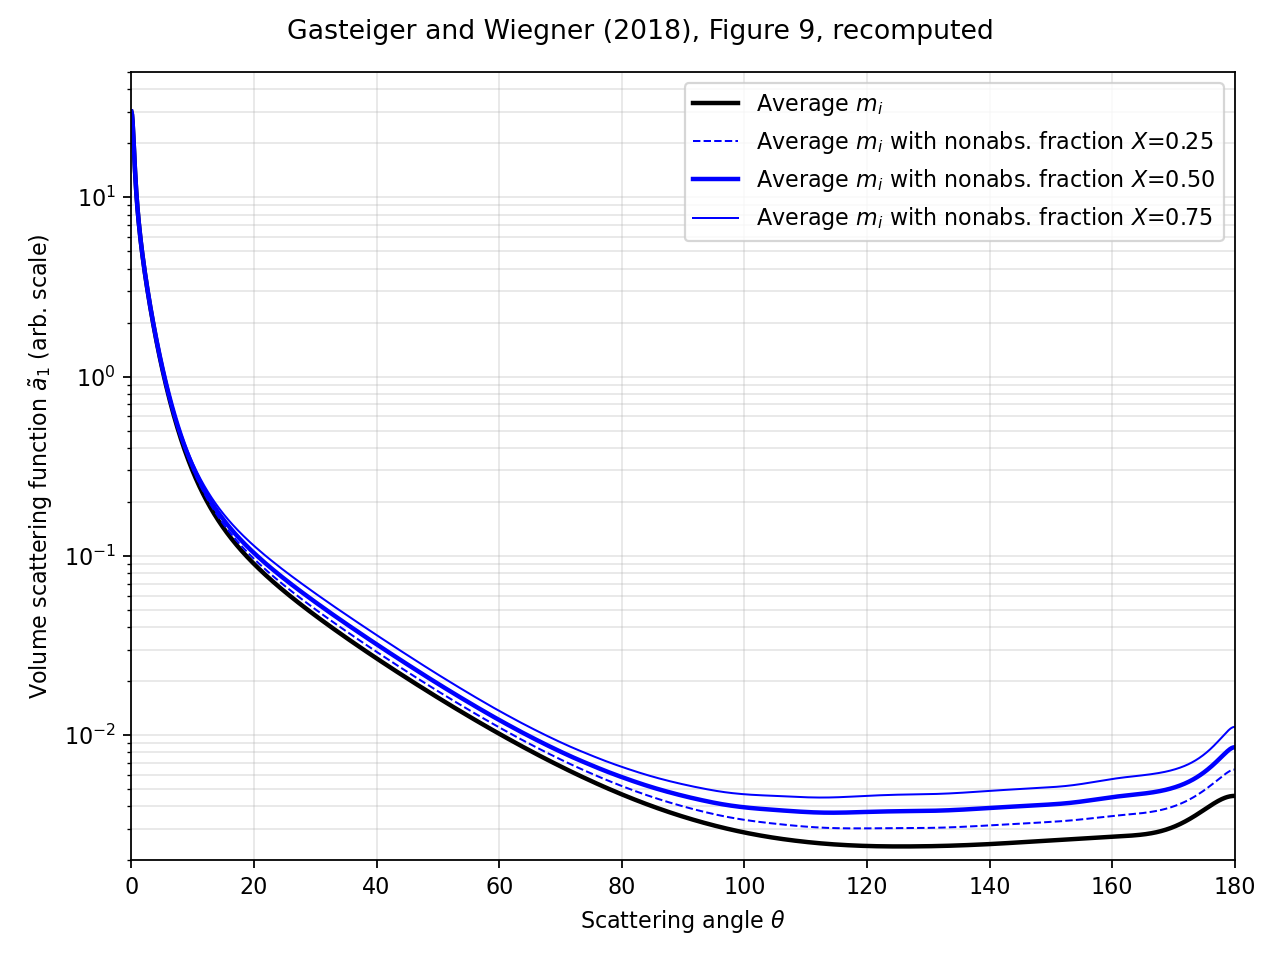
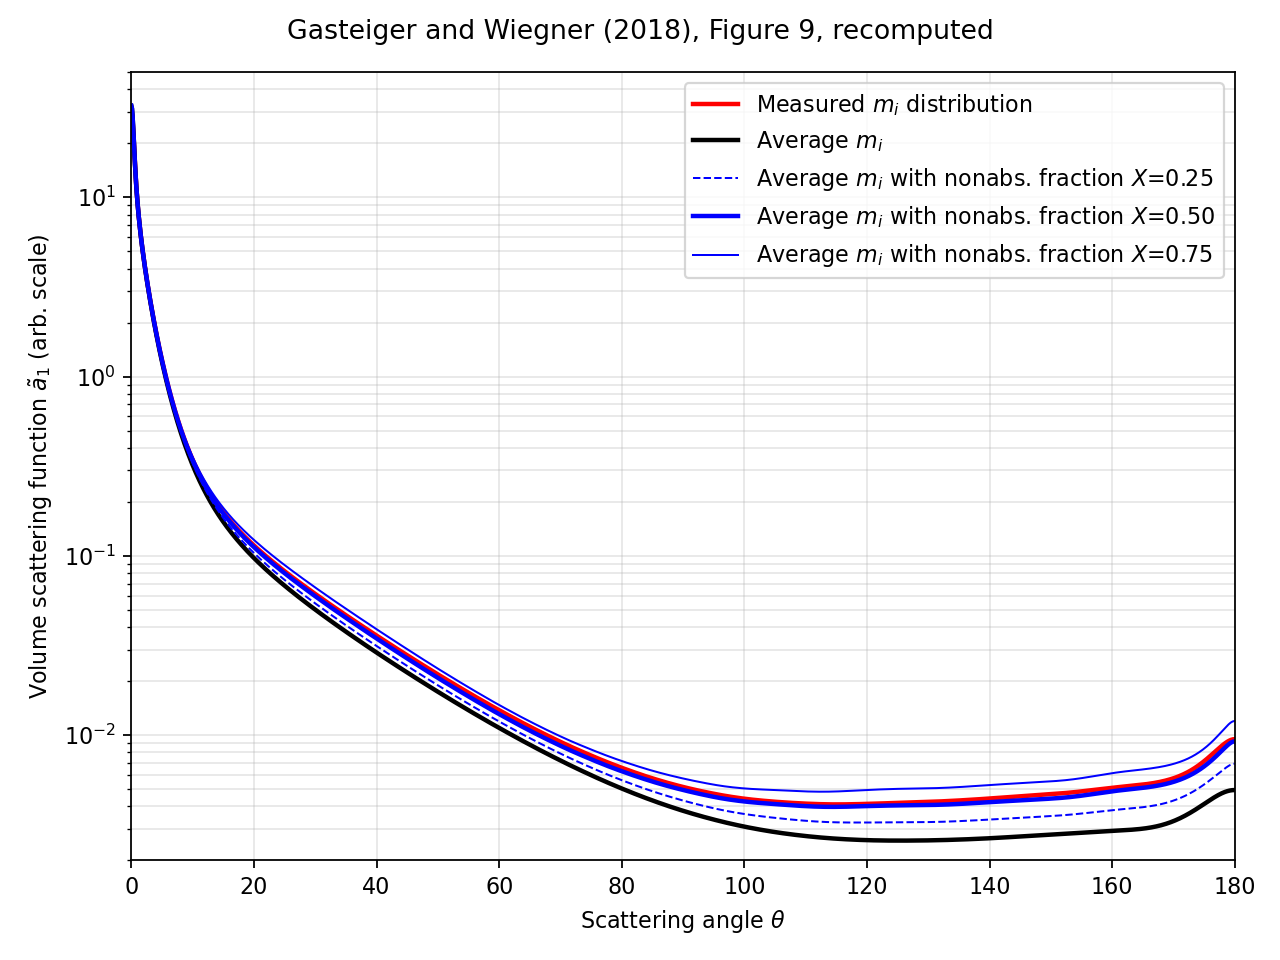
feat: add the measured index distribution to figure 9
The dust half of Appendix S1 of Kandler et al. (2011), eighteen diameter bins
over seventeen index bins. Its average comes back as 0.01746 against the
0.0175 of section 5.6, and g, S and delta_l to four digits.

diff --git a/scripts/validation/gasteiger_fig9.py b/scripts/validation/gasteiger_fig9.py
@@ -9,12 +9,20 @@ either the mi distribution measured by Kandler et al. (2011), the average mi of
 these measurements, or applying the non-absorbing fraction parameterization
 with different X."
 
-Four of the five curves. The red one needs the size-resolved imaginary index
-distribution of Kandler et al. (2011), a supplement that MOPSMAP does not ship
-with its own version of this example, so it is not here. What is here is the
-black curve, every particle carrying the average index, and the three blue
-ones, where a fraction X of the particles does not absorb at all and the rest
-absorbs the more for it.
+Five curves. The red one carries the size-resolved imaginary index
+distribution measured by Kandler et al. (2011), which is Appendix S1 of
+
+    Kandler, K. et al., Tellus B 63, 475-496, 2011,
+    doi:10.1111/j.1600-0889.2011.00550.x
+
+and has to be fetched from the publisher; point ``KANDLER_DATA`` at it. Each
+diameter bin of that table becomes seventeen modes, one per imaginary index
+bin, weighted by how many particles fell in it. Without the file the curve is
+left out and the rest is drawn.
+
+The black curve gives every particle the average index, and the three blue
+ones let a fraction X of them not absorb at all, the rest absorbing the more
+for it.
 
 The ensemble is the OPAC desert type at RH = 0 %, with the mineral components
 as prolate spheroids with the aspect ratio distribution of Kandler et al.
@@ -25,6 +33,7 @@ sets it up.
 
 from __future__ import annotations
 
+import os
 from pathlib import Path
 
 import numpy as np
@@ -62,8 +71,17 @@ MODES = [
 R_MIN_UM = 0.005
 R_MAX_UM = 20.0
 
-# The four cases the figure draws, and the colours the caption gives them.
+KANDLER_DATA = Path(
+    os.getenv(
+        "KANDLER_DATA",
+        Path.home() / "downloads" / "TEB" / "teb_550_sm_appendix_s1.txt",
+    )
+)
+MEASURED = "Measured $m_i$ distribution"
+
+# The five cases the figure draws, and the colours the caption gives them.
 CASES = {
+    MEASURED: (None, "red", "-", 2.0),
     "Average $m_i$": (0.0, "black", "-", 2.0),
     "Average $m_i$ with nonabs. fraction $X$=0.25": (
         0.25,
@@ -79,13 +97,14 @@ OUTPUTS = frozenset(
     {OutputType.INTEGRATED, OutputType.LIDAR, OutputType.PHASE_FUNCTION}
 )
 
-# What section 5.6 states for the two cases that do not need the measured
-# index distribution: "omega_0 = 0.741 when using the average mi and
+# What section 5.6 states: "omega_0 = 0.741 when using the average mi and
 # omega_0 = 0.834 using the parameterization with X = 0.5", then "for the
 # asymmetry parameter g, we obtain 0.744, 0.789, and 0.749 for the measured,
 # averaged, and parameterized cases", "values of 41, 78, and 42 sr" for the
-# lidar ratio and "0.241, 0.212, and 0.220" for the depolarisation.
+# lidar ratio and "0.241, 0.212, and 0.220" for the depolarisation. It gives
+# no albedo for the measured case.
 PUBLISHED = {
+    MEASURED: "     ---  0.744    41.00   0.2410",
     "Average $m_i$": "   0.741  0.789    78.00   0.2120",
     "Average $m_i$ with nonabs. fraction $X$=0.50": (
         "   0.834  0.749    42.00   0.2200"
@@ -95,11 +114,102 @@ PUBLISHED = {
 # What the report prints in the left column, since the legend labels are the
 # ones the published figure uses and do not fit a table.
 SHORT = {
+    MEASURED: "measured",
     "Average $m_i$": "average m_i",
     "Average $m_i$ with nonabs. fraction $X$=0.25": "X = 0.25",
     "Average $m_i$ with nonabs. fraction $X$=0.50": "X = 0.50",
     "Average $m_i$ with nonabs. fraction $X$=0.75": "X = 0.75",
 }
+
+
+def _kandler_distribution() -> tuple[list, list] | None:
+    """
+    The measured index distribution, per diameter bin.
+
+    Returns
+    -------
+    tuple or None
+        The diameter bounds in micrometres and, for each, the fraction of
+        particles in each of the seventeen imaginary index bins with that
+        bin's midpoint. None when the file is not at hand.
+
+    Notes
+    -----
+    The table is the dust half of Appendix S1: one row per meteorological
+    situation, wavelength and diameter bin, then the particle counts. Splitting
+    on whitespace turns "0.05 <= d < 0.1" into five tokens, which is why the
+    counts start at index 7.
+    """
+    if not KANDLER_DATA.exists():
+        return None
+    lines = (
+        KANDLER_DATA.read_text(encoding="latin-1")
+        .replace("\r", "")
+        .splitlines()
+    )
+    header = next(line for line in lines if line.startswith("situation"))
+    fields = header.split()
+    midpoints = [
+        0.5 * (float(fields[i - 2]) + float(fields[i + 2]))
+        for i, token in enumerate(fields)
+        if token == "k"
+    ]
+
+    prefix = f"dust\t{WAVELENGTH_UM * 1e3:.0f}\t"
+    diameters, fractions = [], []
+    for line in lines:
+        if not line.startswith(prefix):
+            continue
+        row = line.split()
+        counts = np.array([float(x) for x in row[7 : 7 + len(midpoints)]])
+        diameters.append((float(row[2]), float(row[6])))
+        fractions.append(counts / counts.sum())
+    return diameters, [list(zip(midpoints, share)) for share in fractions]
+
+
+def _measured_modes() -> list[MicroParameters] | None:
+    """The desert ensemble with the measured index distribution on its dust."""
+    table = _kandler_distribution()
+    if table is None:
+        return None
+    diameters, fractions = table
+
+    built = [
+        MicroParameters(
+            wavelength=[WAVELENGTH_UM],
+            n_real=N_REAL,
+            n_imag=WASO_INDEX[1],
+            shape=Sphere(),
+            psd=LognormalPSD(
+                rm=MODES[0][1],
+                sigma=MODES[0][2],
+                n=MODES[0][0] * 1e6,
+                rmin=diameters[0][0] * 0.5,
+                rmax=diameters[-1][1] * 0.5,
+            ),
+        )
+    ]
+    for (low, high), share in zip(diameters, fractions):
+        for index, rm, sigma, spheroidal in MODES[1:]:
+            for imaginary, weight in share:
+                if weight <= 0.0:
+                    continue
+                built.append(
+                    MicroParameters(
+                        wavelength=[WAVELENGTH_UM],
+                        n_real=N_REAL,
+                        n_imag=imaginary,
+                        shape=SpheroidDistrFile(distr_filename=AR_KANDLER),
+                        psd=LognormalPSD(
+                            rm=rm,
+                            sigma=sigma,
+                            n=index * weight * 1e6,
+                            rmin=low * 0.5,
+                            rmax=high * 0.5,
+                        ),
+                    )
+                )
+    return built
 
 
 def _modes(nonabs_fraction: float) -> list[MicroParameters]:
@@ -142,10 +252,13 @@ def compute() -> xr.Dataset:
         for the four integrated quantities the script reports.
     """
     per_case = []
+    drawn = []
     for name, (fraction, *_) in CASES.items():
-        point = run_point(
-            _modes(fraction), OUTPUTS, quiet=True, n_angles=N_ANGLES
-        )
+        modes = _measured_modes() if fraction is None else _modes(fraction)
+        if modes is None:
+            print(f"  {SHORT[name]}: skipped, no {KANDLER_DATA}")
+            continue
+        point = run_point(modes, OUTPUTS, quiet=True, n_angles=N_ANGLES)
         scalar = {
             key: float(point[key].values.ravel()[0])
             for key in ("ssa", "g", "lidar_ratio", "depol_ratio")
@@ -168,10 +281,11 @@ def compute() -> xr.Dataset:
                 coords={"theta": point["theta"].values},
             )
         )
-        print(f"  {name}: done")
+        drawn.append(name)
+        print(f"  {SHORT[name]}: {len(modes)} modes")
     return xr.concat(
         per_case,
-        dim=xr.DataArray(list(CASES), dims="case", name="case"),
+        dim=xr.DataArray(drawn, dims="case", name="case"),
     )
 
 
@@ -188,6 +302,8 @@ def report(data: xr.Dataset) -> None:
         )
     print()
     for label, row in PUBLISHED.items():
+        if label not in data["case"]:
+            continue
         name = f"published, {SHORT[label].replace('average m_i', 'avg')}"
         print(f"{name:18s}{row[2:]}")
 
